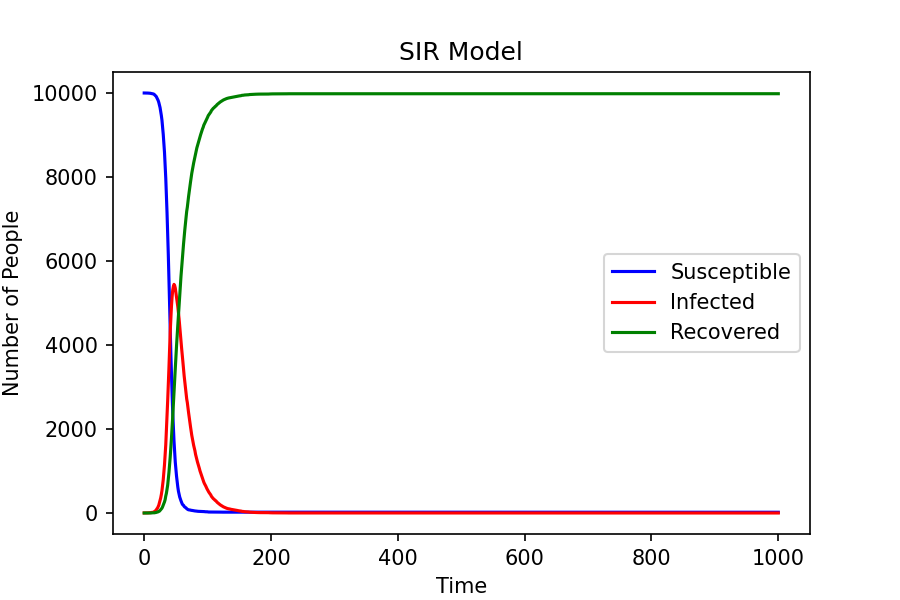
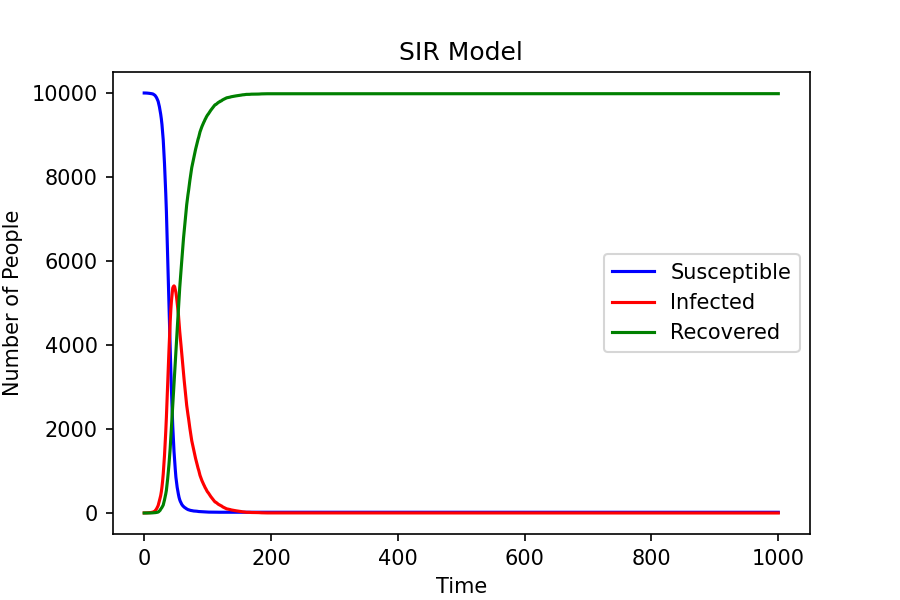
Finalize Practical 9: implement stochastic SIR models and vaccination simulations with verified plot outputs and reflection

Changed region(s): [[0.1556, 0.27, 0.28, 0.87], [0.2178, 0.18, 0.2489, 0.24], [0.2489, 0.15, 0.28, 0.18]]

diff --git a/Practical9/SIR_vaccination.py b/Practical9/SIR_vaccination.py
@@ -63,4 +63,5 @@ plt.xlabel('Time')
 plt.ylabel('Number of infected people')
 plt.title('SIR model with different vaccination rates')
 plt.legend(fontsize=7)
+plt.savefig('sir_vaccination_curves.png', dpi=150, bbox_inches='tight')
 plt.show()

diff --git a/Practical9/spatial_SIR.py b/Practical9/spatial_SIR.py
@@ -78,4 +78,5 @@ fig.suptitle('2D Spatial SIR Model', fontsize=18, y=0.98, weight='bold')
 
 # Adjust layout and display the final plot
 plt.tight_layout()
+plt.savefig('spatial_sir_2d_grid.png', dpi=150, bbox_inches='tight')
 plt.show()